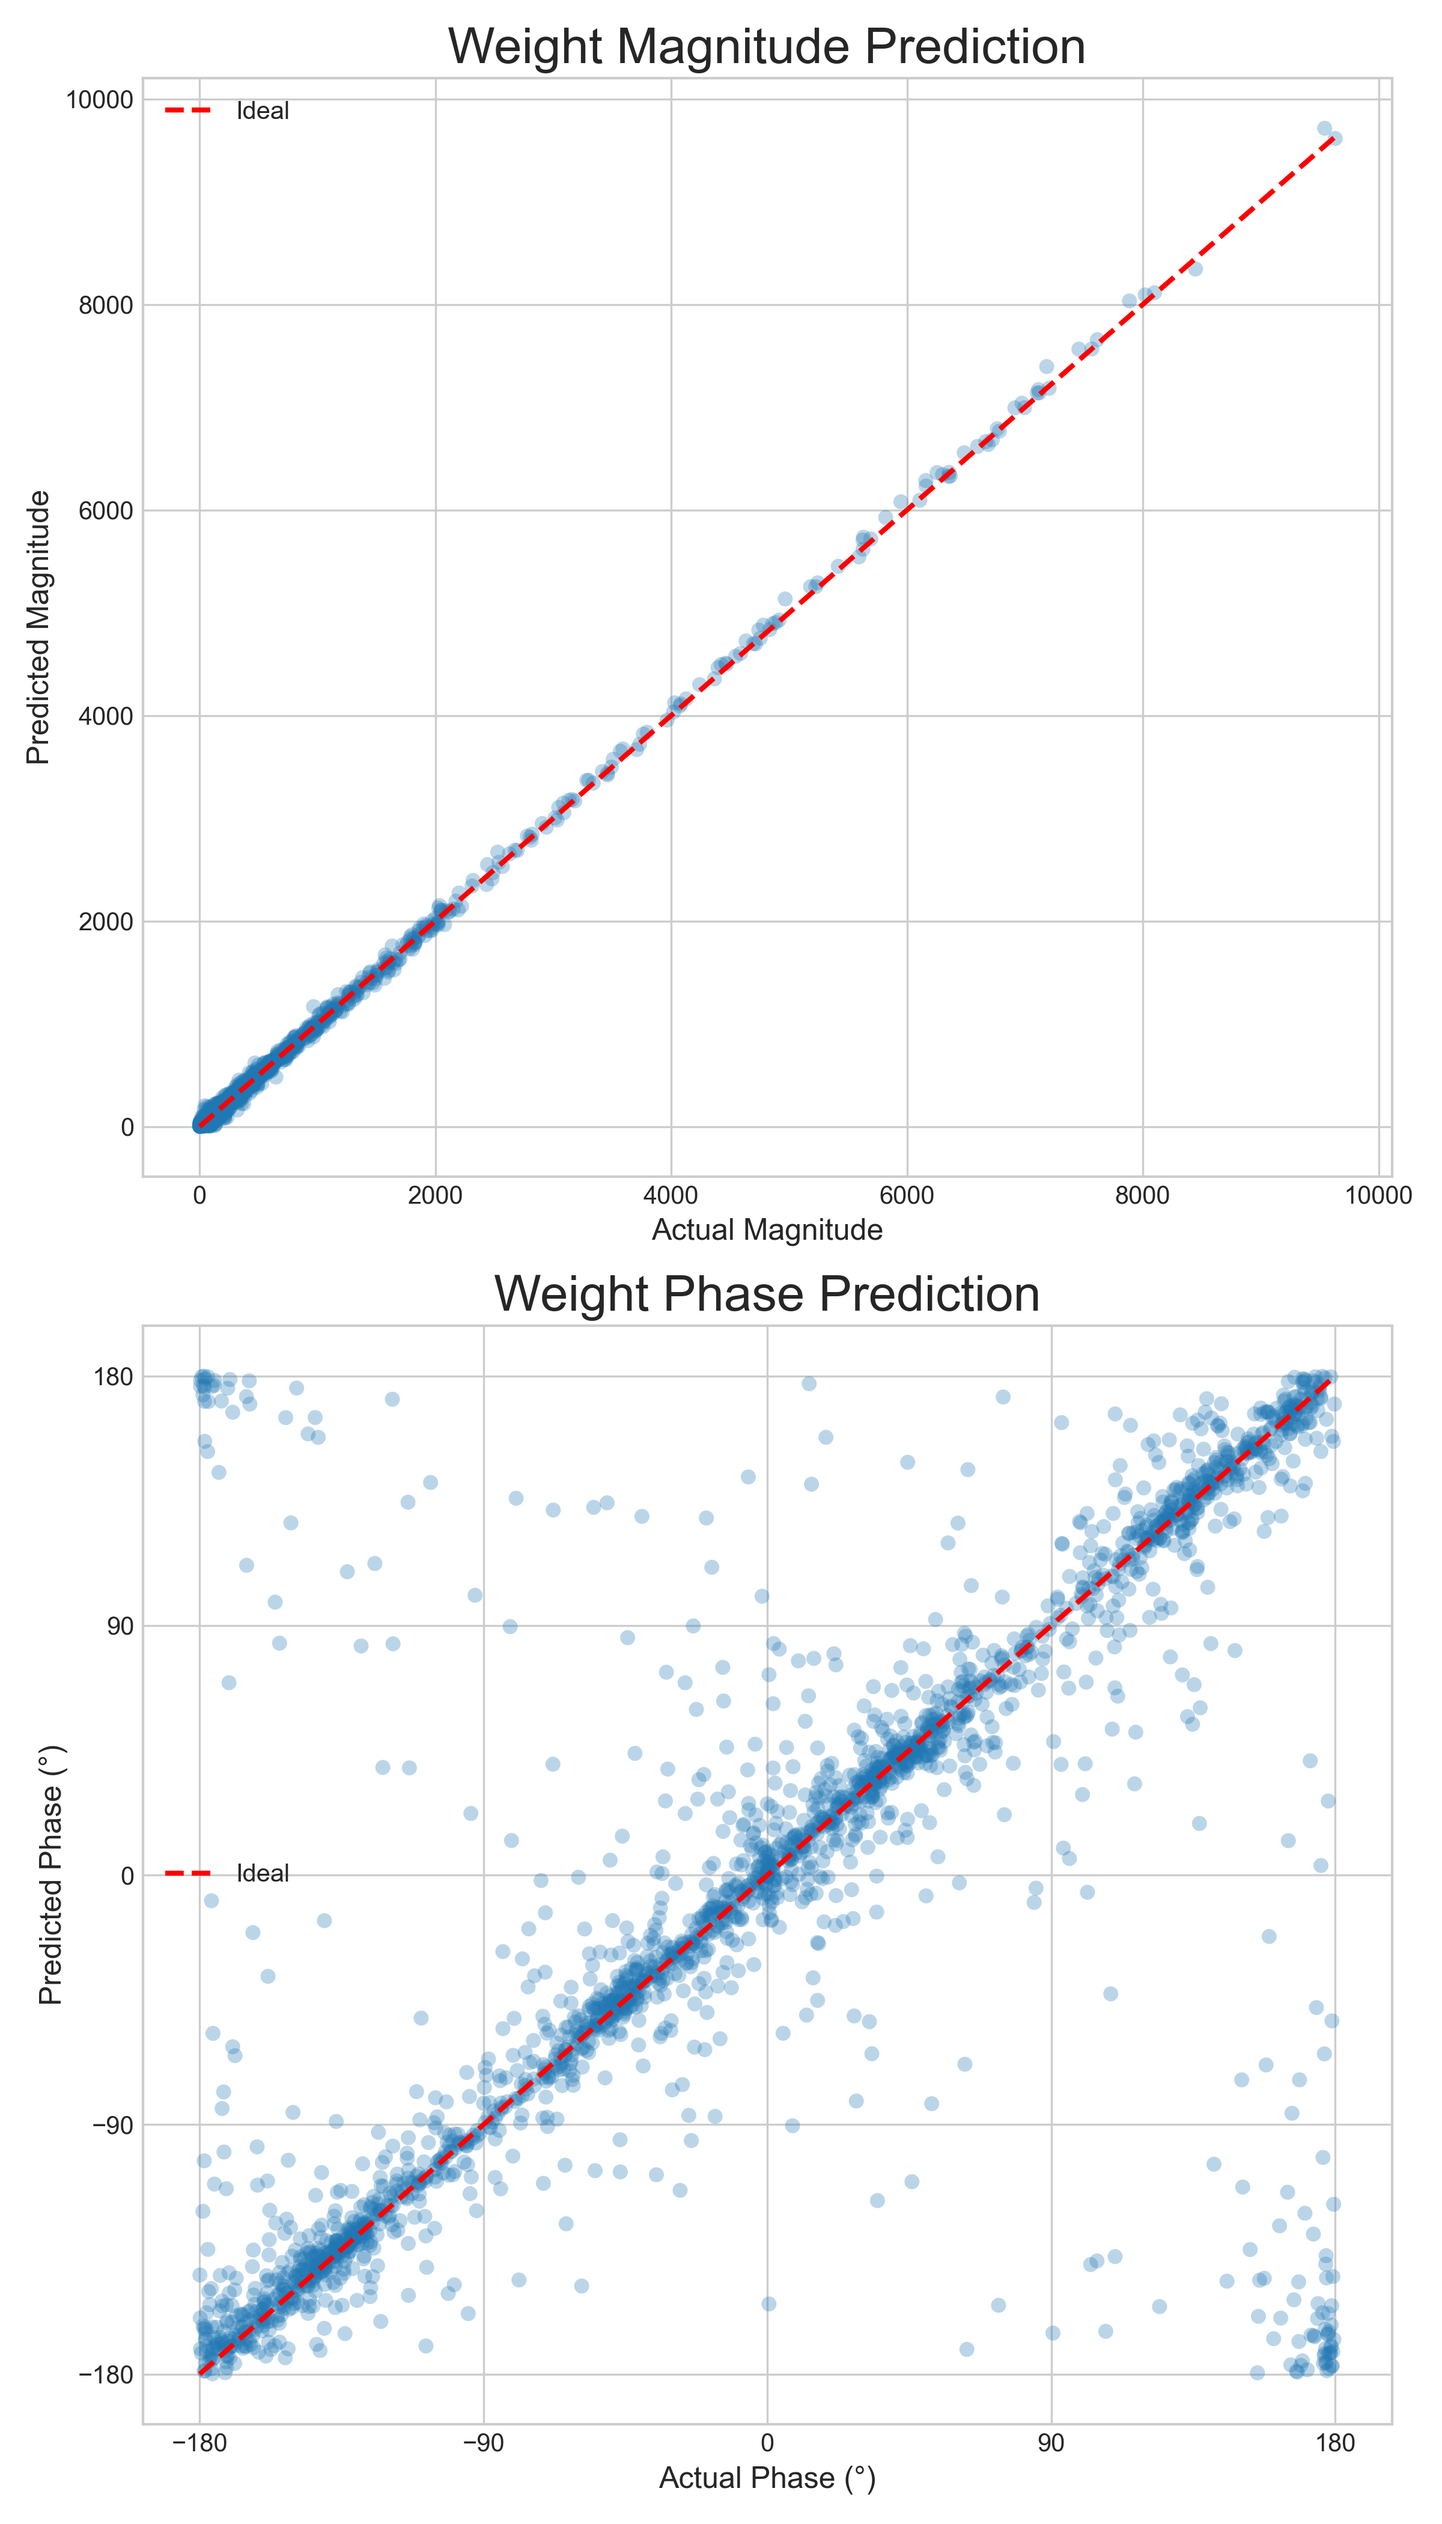
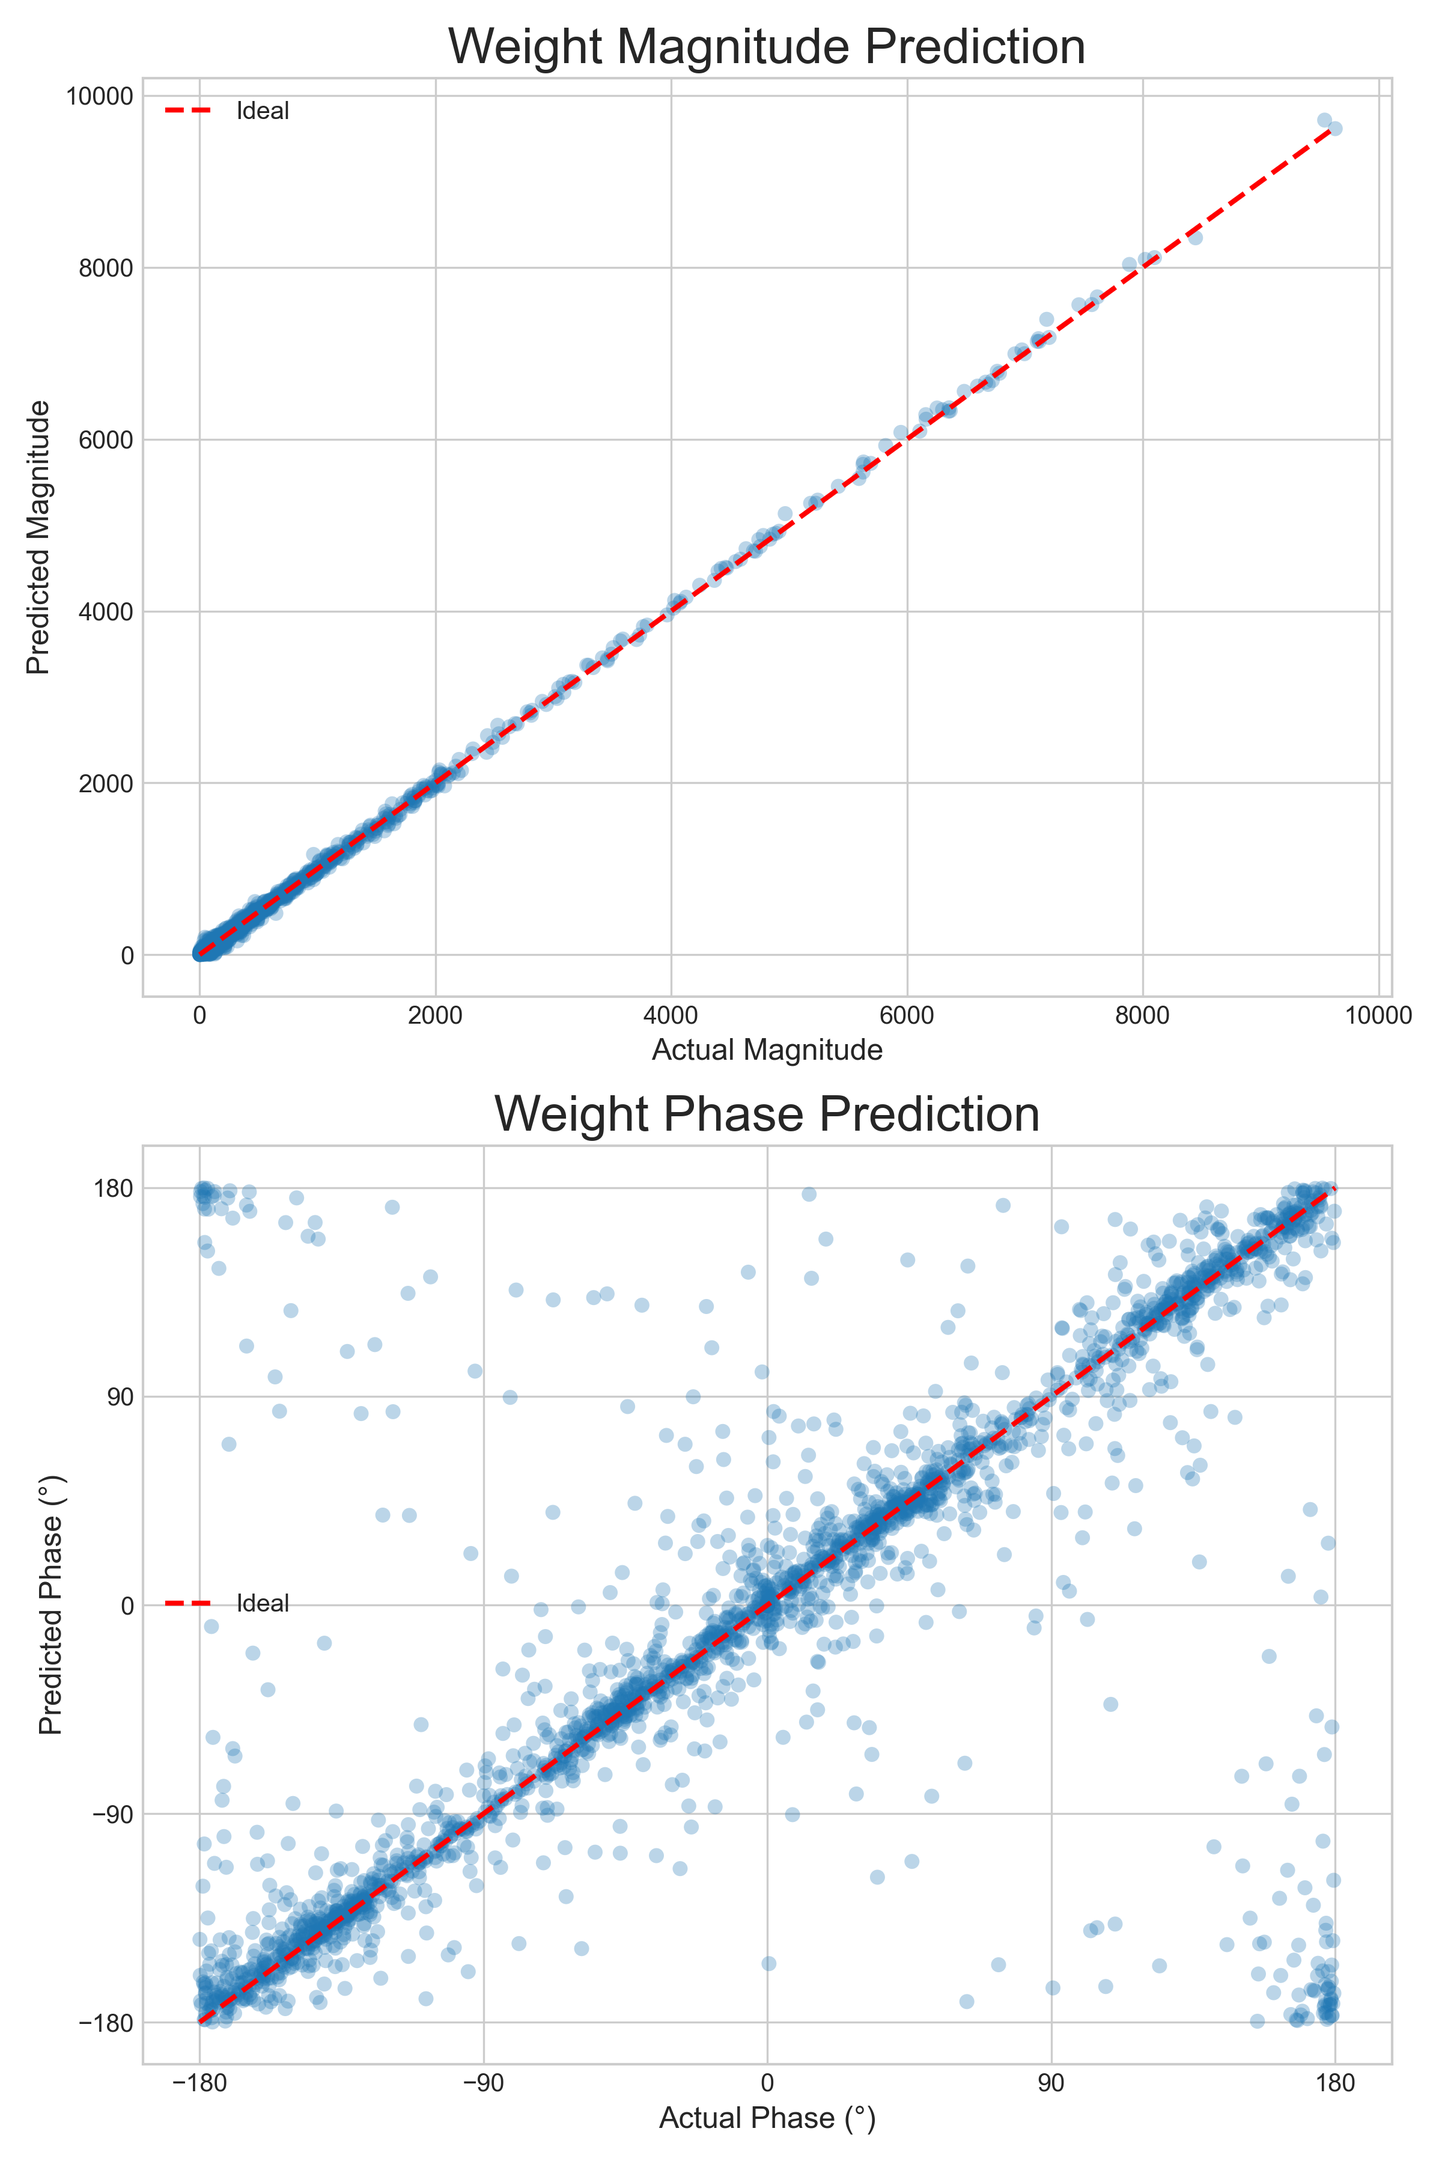
minor changes

diff --git a/learning.py b/learning.py
@@ -203,7 +203,7 @@ def evaluate_and_plot(model, test_loader, history, device, num_antennas):
     model.eval()
     
     plt.style.use('seaborn-v0_8-whitegrid')
-    fig, ax = plt.subplots(figsize=(10, 6))
+    fig, ax = plt.subplots(figsize=(8, 6))
     ax.plot(history['train_loss'], label='Training Loss', color='b')
     ax.plot(history['val_loss'], label='Validation Loss', color='r')
     ax.set_title('Model Training and Validation Loss', fontsize=20); ax.set_xlabel('Epoch', fontsize=12); ax.set_ylabel('Mean Squared Error (MSE)', fontsize=20)
@@ -230,7 +230,7 @@ def evaluate_and_plot(model, test_loader, history, device, num_antennas):
     pred_mag = np.abs(pred_complex).flatten(); label_mag = np.abs(label_complex).flatten()
     pred_phase = np.angle(pred_complex, deg=True).flatten(); label_phase = np.angle(label_complex, deg=True).flatten()
 
-    fig, (ax1, ax2) = plt.subplots(1, 2, figsize=(14, 6))
+    fig, (ax1, ax2) = plt.subplots(2, 1, figsize=(8, 12))
     ax1.scatter(label_mag, pred_mag, alpha=0.3, edgecolors='none'); ax1.plot([min(label_mag), max(label_mag)], [min(label_mag), max(label_mag)], 'r--', lw=2, label='Ideal')
     ax1.set_title('Weight Magnitude Prediction', fontsize=20); ax1.set_xlabel('Actual Magnitude', fontsize=12); ax1.set_ylabel('Predicted Magnitude', fontsize=12)
     ax1.grid(True); ax1.legend()
